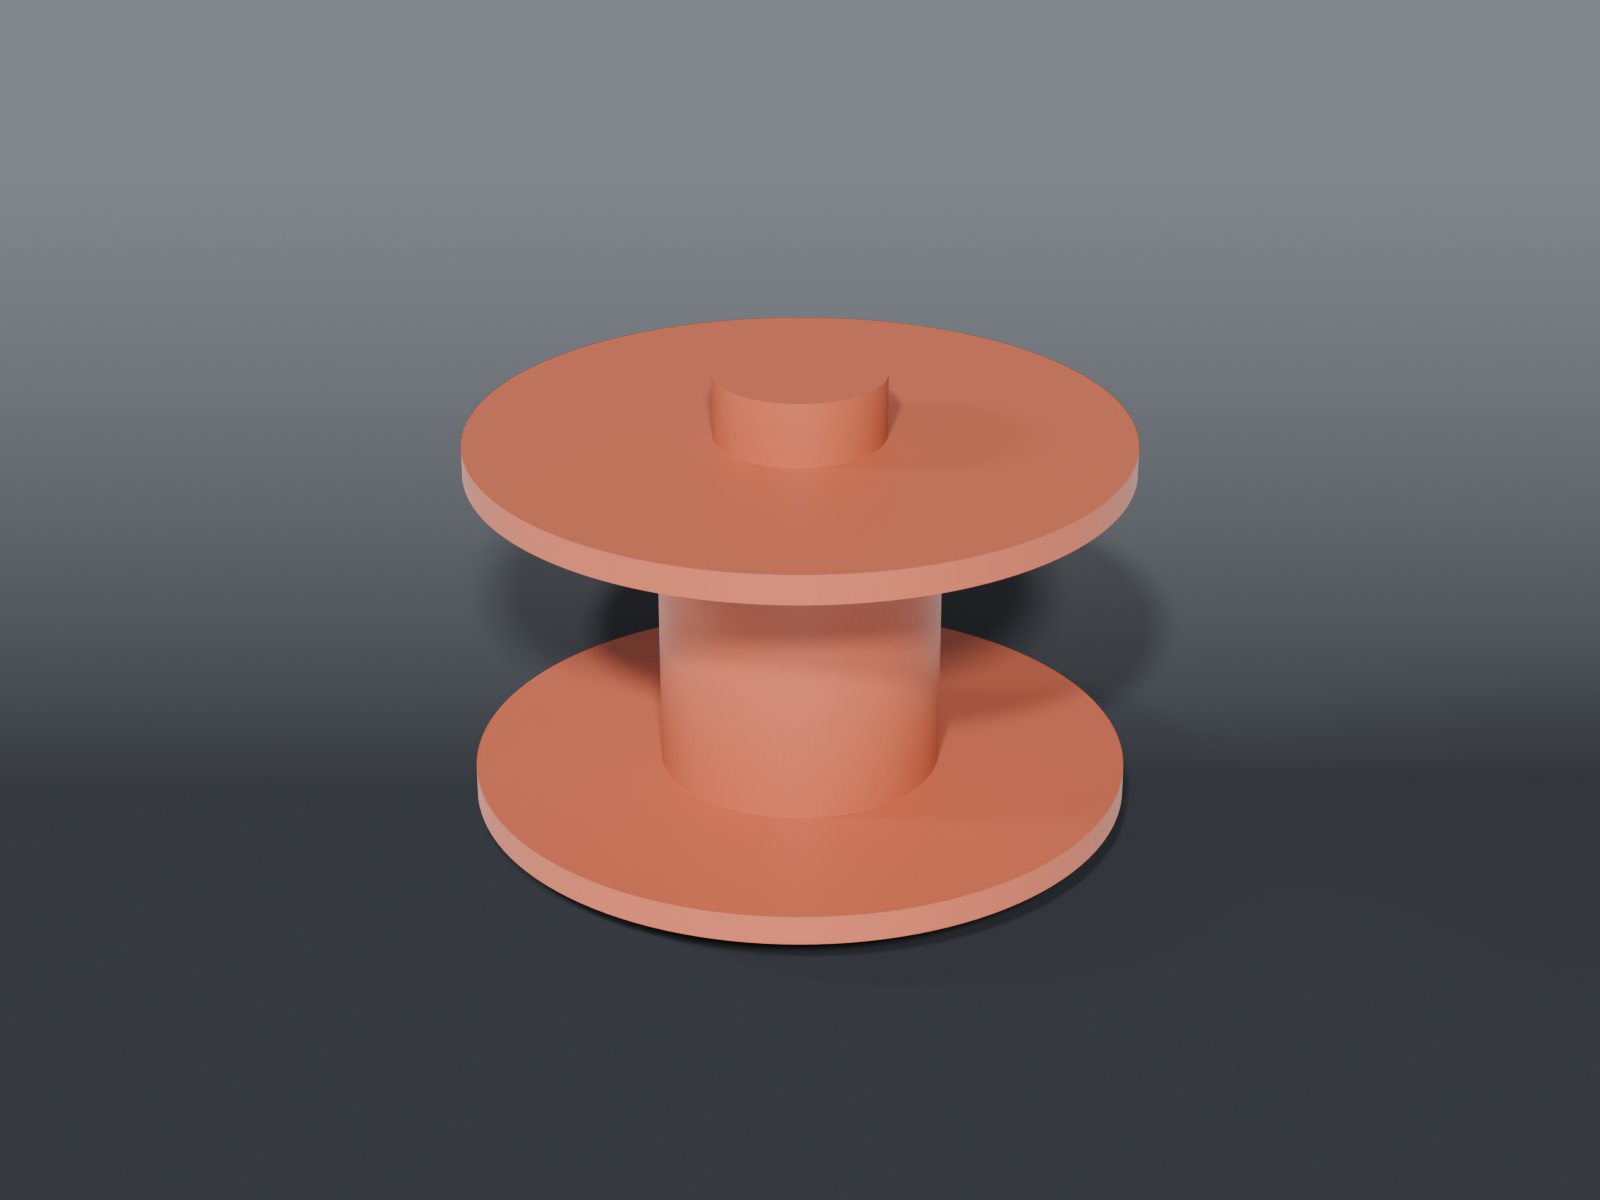
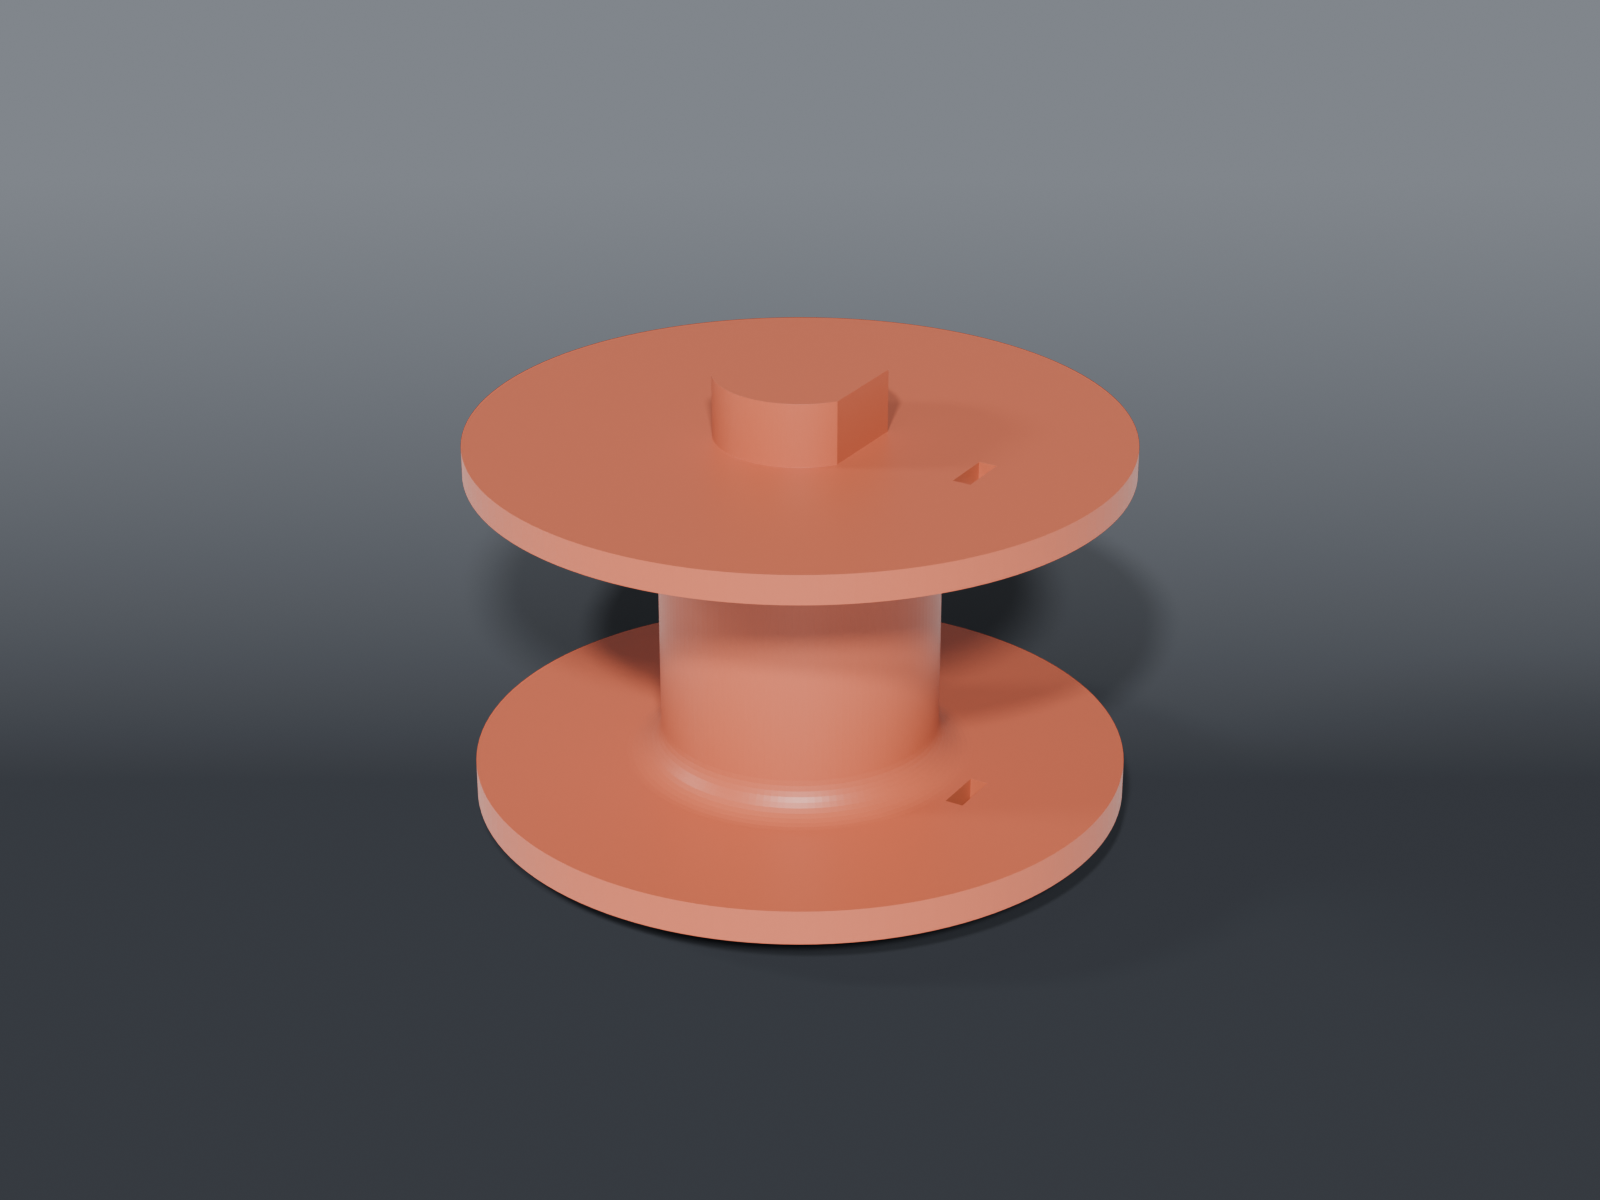
fix(wick-solder-spool): fillet the hub into a thicker lower flange, add an anchor slot per flange

diff --git a/wick-solder-spool/README.md b/wick-solder-spool/README.md
@@ -28,12 +28,14 @@ Taken off the supplied STLs. The existing brackets are being kept, so none of it
 
 Printed upright in one piece, both flange undersides are flat ceilings. Making them self-supporting costs 45° cones that eat 20–37 mm of a 34 mm span — ⌀48 and up will not fit at all, and the self-supporting version collapses to **6.9 cm³**.
 
-Splitting at the **upper flange's underside** gives 58.8 cm³ with no towers:
+Splitting at the **upper flange's underside** gives 53.7 cm³ with no towers:
 
 | part | print | support |
 |---|---|---|
 | `spool_lower.scad` | spigot-down, as emitted | a short ring under the lower flange, 3.80 mm above the bed |
 | `spool_upper.scad` | flange-down, as emitted — 2463 mm² on the bed | **none** |
+
+**Getting `spool_lower` off the plate.** The only model touching the bed is the ⌀9.70 spigot. The ⌀56 flange is sitting on that support ring, and in PETG the ring is what holds the part down. Let the plate cool all the way and flex it; do not lever the flange up with a scraper. The first print was pried, and the hub sheared off the flange — see below.
 
 ⚠ **Do not split it mid-hub.** That was the first idea and it is wrong: the upper half becomes hub-then-flange, which overhangs whichever way up you print it.
 
@@ -46,9 +48,24 @@ The two halves are trapped between the brackets once installed, so the joint onl
 
 The ridge is two stacked cones rather than a torus. A torus meets the bore on a tangent line, and tangency in a boolean is what this repo keeps paying for.
 
+## The hub sheared off the lower flange — and the fix
+
+The first `spool_lower` came off the plate in two pieces: the flange stayed on the support ring and the hub came away with the spool. The profile met the flange with a sharp 90° corner, on a layer line, and the flange was 2.5 mm. Prying a ⌀56 disc off the plate puts the whole lever into that corner, and a ⌀24 hub on a 2.5 mm flange is not much of a corner to hold it.
+
+Two changes, both in `spool_common.scad`:
+
+- **`HUB_FILLET` 3.0** — the corner is a quarter-round now, so the load spreads across several layers instead of one.
+- **`LOW_FL_T` 3.0** — the lower flange is 0.5 mm thicker. The upper flange stays 2.5; it prints face-down and is never pried.
+
+Cost: 0.5 mm of winding width. The upper part is unchanged apart from its anchor slot, so any already-printed `spool_upper` still fits.
+
+## Anchor slot
+
+Each flange has one **4.5 × 1.6 mm slot** through it, hard against the hub, in line with the joint's flat. Poke the start of the wire or braid down through the slot and bend it over on the far face; the first turn traps it. No tape. The braid goes through flat-wise. One slot per flange so a start can be anchored at either end.
+
 ## Capacity
 
-⌀56 flanges over a ⌀24 hub, 27.2 mm of winding width — **54.7 cm³**.
+⌀56 flanges over a ⌀24 hub, 26.7 mm of winding width — **53.7 cm³**.
 
 `HUB_D` is also the tightest bend the braid sees; raise it if the braid resists the wind.
 
